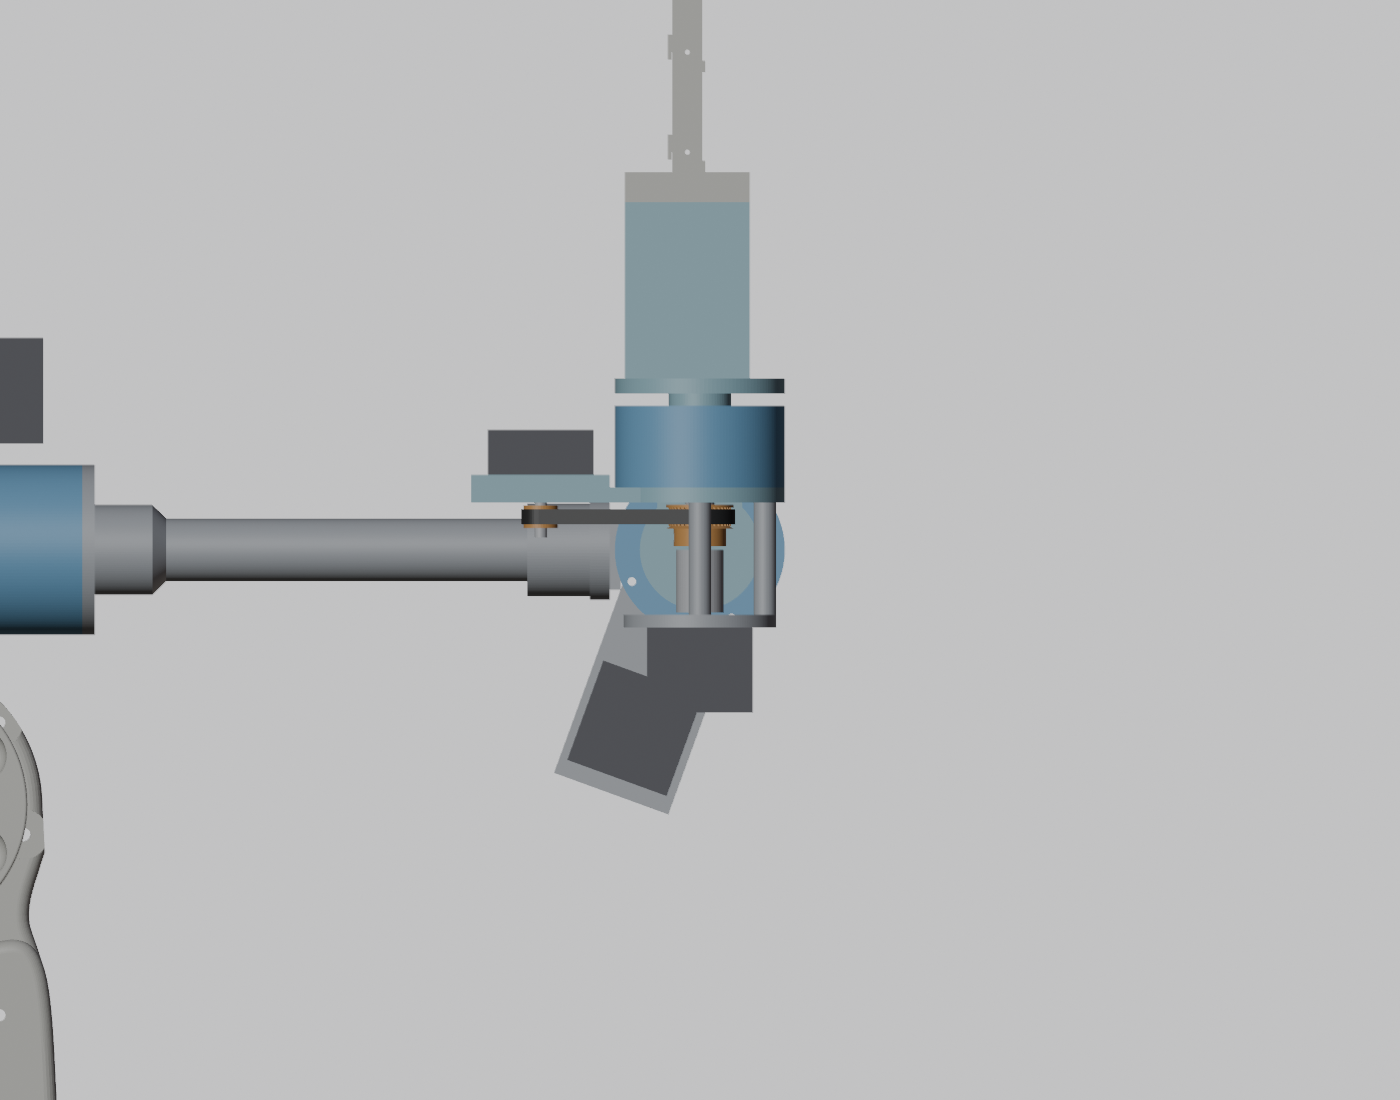
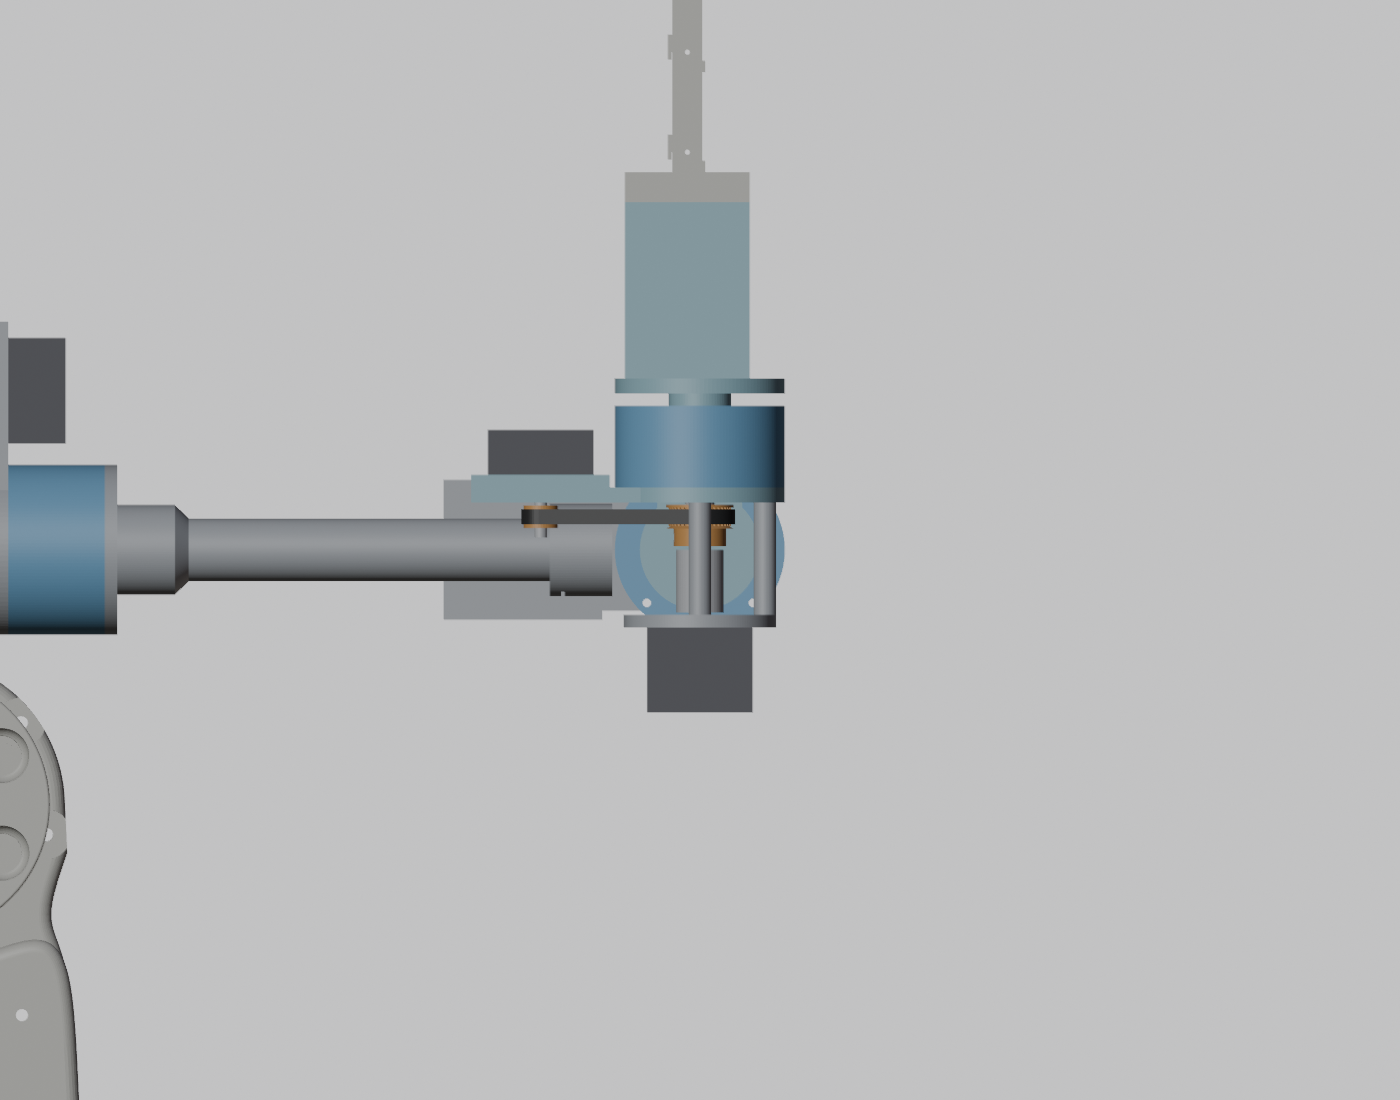
Lay out the in-line axis 5 motor and the glued head bracket
The layout checks that the pancake now sits beside the forearm, that the
old wrist hub is gone, and that pitch still sweeps ±170° clear. With the
pancake opposite the hand, axis 4's worst roll load drops from 1.39 to
1.28 N·m.

diff --git a/tools/blender/head_concept.py b/tools/blender/head_concept.py
@@ -168,7 +168,7 @@ def ring_prism(name, col, mat, m, r1, r2, c, z0, z1, t):
     return place(o, col, mat, m)
 
 
-def belted_drive(prefix, col, m, folder="20-1-hollow", plate=True, big=40, belt=188):
+def belted_drive(prefix, col, m, folder="20-1-hollow", plate=True, big=40, belt=188, outboard=False):
     """Mount plate, big pulley (40T, or axis 5's 60T on the offset wrist), 20T, belt and pancake, with the motor
     beside the housing as on the POC mount."""
     c = round(C.belt_centre_distance(20, big, belt), 2)
@@ -183,7 +183,10 @@ def belted_drive(prefix, col, m, folder="20-1-hollow", plate=True, big=40, belt=
     place(pulley, col, "pulley", m @ Matrix.Translation((0, 0, -MOUNT_T - 1)) @ flip())
     place(L.cyl_z(prefix + " 20T (dummy)", c, 0, R20 + 0.5, BELT_PLANE - 4.5, BELT_PLANE + 4.5, n=40), col, "pulley", m)
     ring_prism(f"{prefix} belt {belt}", col, "belt", m, R20, r_big, c, BELT_PLANE - 3, BELT_PLANE + 3, 1.4)
-    motor(prefix + " pancake", col, m @ Matrix.Translation((c, 0, 0)), 0.0, 1, PANCAKE_L)
+    if outboard:   # on a plate past the belt, mirrored about the belt plane
+        motor(prefix + " pancake", col, m @ Matrix.Translation((c, 0, 0)), 2 * BELT_PLANE, -1, PANCAKE_L)
+    else:
+        motor(prefix + " pancake", col, m @ Matrix.Translation((c, 0, 0)), 0.0, 1, PANCAKE_L)
 
 
 def axis4():
@@ -211,8 +214,9 @@ def axis4_tube():
     flip_back = Matrix.Diagonal((1, -1, -1, 1))
     parts = {"forearm-outer-tube": ("fixed", Matrix.Translation((0, 0, F.OUTER_X[0]))),
              "ax4-output-plate": ("moving", Matrix.Translation((0, 0, F.PLATE_X[0]))),
-             "ax4-tube-hub": ("moving", Matrix.Translation((0, 0, F.HUB_X[0]))),
-             "wrist-flange-hub": ("moving", flip_back @ Matrix.Translation((0, 0, -F.FLANGE_FACE)))}
+             "ax4-tube-hub": ("moving", Matrix.Translation((0, 0, F.HUB_X[0])))}
+    if not OFFSET_WRIST:   # on the offset wrist the head bracket is glued on the tube in the hub's place
+        parts["wrist-flange-hub"] = ("moving", flip_back @ Matrix.Translation((0, 0, -F.FLANGE_FACE)))
     for name, (mat, pose) in parts.items():
         place(stl(os.path.join(MODEL, "forearm-tube", name + ".stl"), "ax4 " + name), col, mat, m @ pose)
     place(ring("ax4 aluminium tube 9 x 11", F.TUBE_R, 4.5, *F.TUBE_X), col, "steel", m)
@@ -232,7 +236,7 @@ def axis5():
     m = ax5_frame()
     cycloid("20-1-compact", "ax5", col, m)
     if OFFSET_WRIST:   # its mounts are inside its brackets; axis 5 is geared 60:1
-        belted_drive("ax5", col, m, plate=False, big=W.AX5_TEETH, belt=W.AX5_BELT)
+        belted_drive("ax5", col, m, plate=False, big=W.AX5_TEETH, belt=W.AX5_BELT, outboard=W.PANCAKE_OUTBOARD)
     else:
         belted_drive("ax5", col, m)
     place(L.cyl_z("ax5 Ø5 rod", 0, 0, 2.5, -23.5, 31.0, n=32), col, "steel", m)
@@ -345,6 +349,8 @@ def wrist_parts():
     to_world = Matrix.Translation((AX4_REAR_X, 0, ROLL_Z))
     wrist = os.path.join(MODEL, "wrist")
     place(stl(os.path.join(wrist, "head-bracket.stl"), "head-bracket"), "Wrist fixed", "fixed", to_world @ unprint(W.AX5_REAR_Y + 6.0))
+    place(stl(os.path.join(wrist, "ax5-motor-plate.stl"), "ax5-motor-plate"), "Wrist fixed", "fixed",
+          ax5_frame() @ Matrix.Translation((0, 0, W.MP_LOCAL_Z["plate"][0])))
     place(ring("6705, outer tube to the head bracket", W.BRG5_R_OUT, W.BRG5_R_IN, *W.BRG5_X), "Wrist fixed", "cycloid",
           frame((AX4_REAR_X, 0, ROLL_Z), (1, 0, 0), (0, 0, 1)))
     place(stl(os.path.join(wrist, "ax6-l-bracket.stl"), "ax6-l-bracket"), "Wrist pitch body", "moving", to_world @ unprint(W.LB_Y[0]))
@@ -468,7 +474,7 @@ def tube_axis4_report():
 
 PITCH_MASSES = {"ax6 cycloid": 150, "ax6 pancake": 120, "ax7 gripper motor": 230, "Gripper drive, past axis 6": 80,
                 "Three-finger hand": 400, "Wrist pitch body": 50}   # grams, estimates
-FIXED_HEAD_MASSES = {"ax5 cycloid": 150, "ax5 pancake": 120, "head-bracket": 45}
+FIXED_HEAD_MASSES = {"ax5 cycloid": 150, "ax5 pancake": 120, "head-bracket": 70, "ax5-motor-plate": 25}   # the bracket now includes the wrist hub
 TOOL_KG = 0.2
 MEASURED_NM_AT_40 = 1.17                       # red compact + pancake at 1000 mA, torque test 2026-11-15; the spec wants 1.5x over the load
 CYCLOID_PARTS = ("housing", "carrier", "disk", "eccentric")
@@ -550,6 +556,9 @@ def pitch_sweep(degs):
 
 
 def offset_wrist_report(report):
+    pan = [v.co for v in bpy.data.objects["ax5 pancake"].data.vertices]
+    assert min(p.y for p in pan) >= 40.0 and all(abs(p.z - ROLL_Z) <= 25.0 for p in pan), "axis 5's pancake isn't beside the forearm, in line with it"
+    assert not [o for o in bpy.data.objects if "wrist-flange-hub" in o.name], "the old wrist hub is still drawn: the head bracket replaces it"
     hits = pitch_sweep(range(-170, 171, 10))
     assert not hits, ("pitch body clashes", hits)
     grip = world_verts(col="Three-finger hand")
